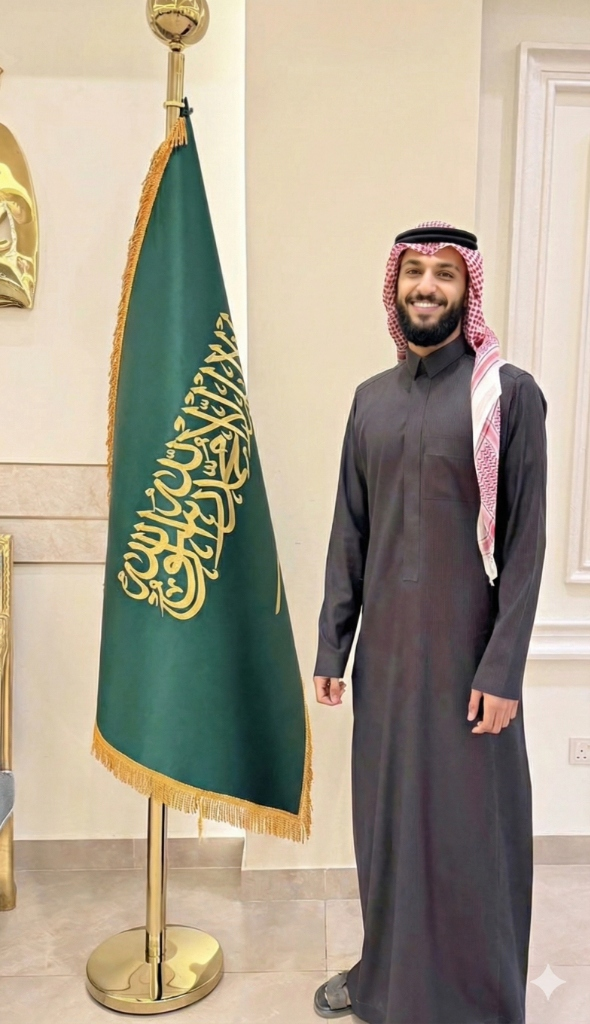
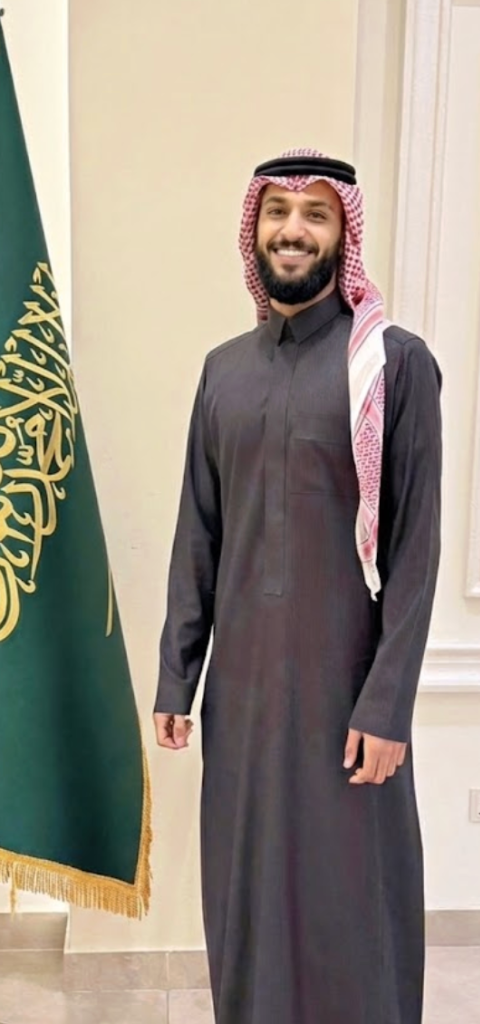
Imam photo: full color, portrait crop

diff --git a/index.html b/index.html
@@ -357,12 +357,11 @@
         }
 
         .imam-photo {
-            width: 74px;
-            height: 74px;
-            border-radius: 50%;
+            width: 76px;
+            height: 100px;
+            border-radius: 10px;
             object-fit: cover;
             object-position: top;
-            filter: grayscale(100%);
             border: 2px solid var(--gold-light);
             margin-bottom: 14px;
         }
